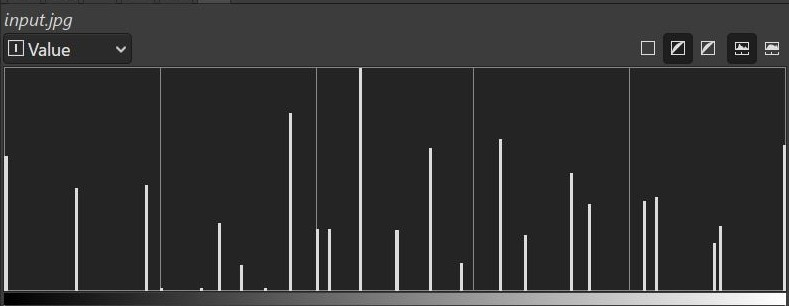
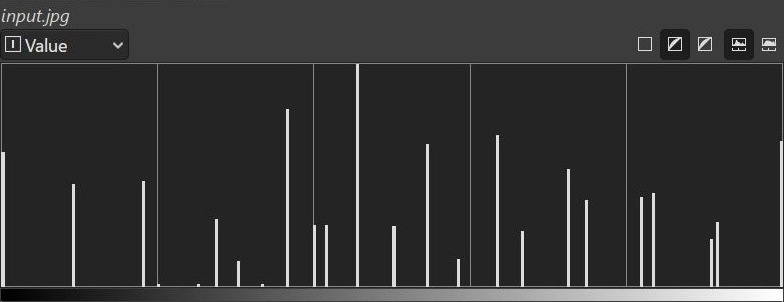
crop histograms and gif-ize demo

diff --git a/README.md b/README.md
@@ -21,9 +21,9 @@ Detail of Russ's mask:
 
 ![](demo/mask.gif)
 
-|          |      GIMP Alone | jFloaty+GIMP  | Notes |
-|:--------:|:----------------------------------------:|:-------------------------------------------------------:|:-:|
-|Histogram | ![](demo/input.hist.jpg "RGB888-Hist")   | ![](demo/output.hist.jpg "RGBFFF-Hist")                 | Evidence of more colors |
+Histograms:
+
+![](demo/hist.gif)
 
 
 # DSP Thoughts
